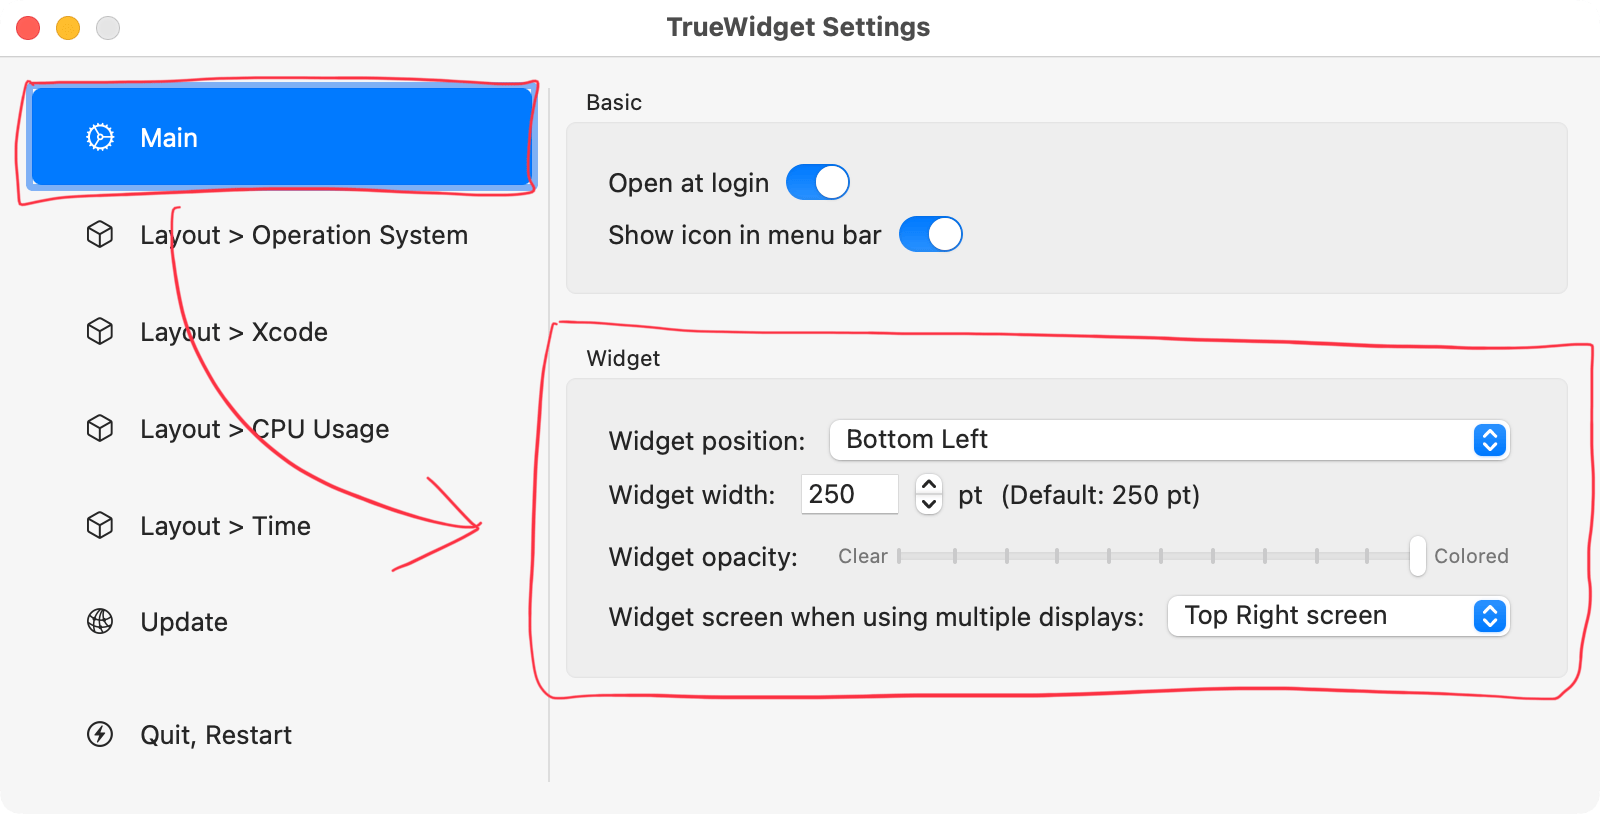
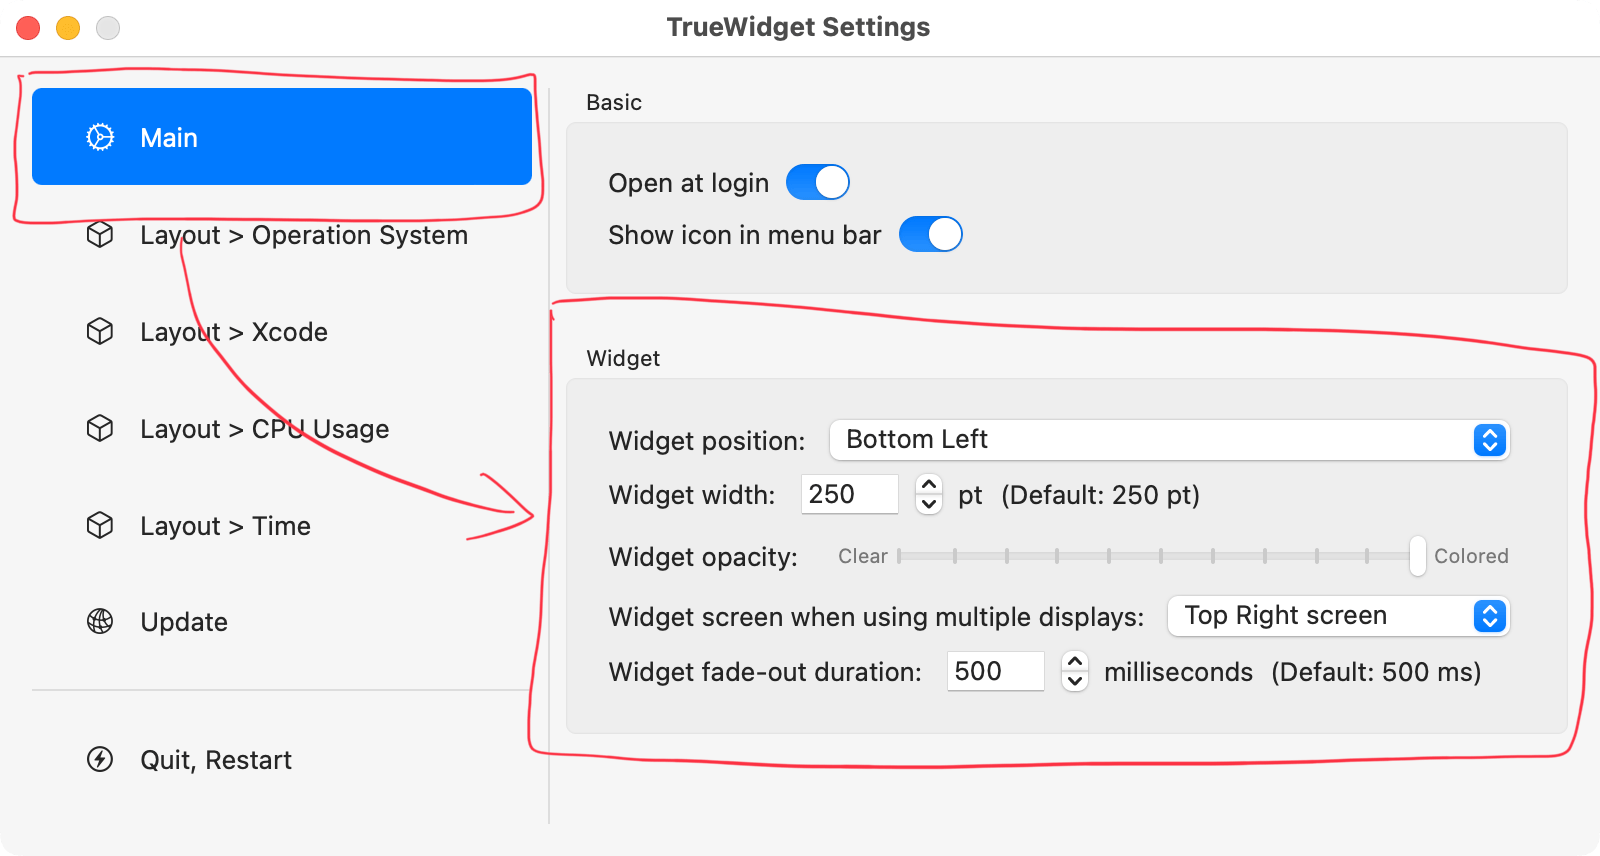
Update public

diff --git a/sites/truewidget/public/docs/releasenotes/index.html b/sites/truewidget/public/docs/releasenotes/index.html
@@ -19,22 +19,22 @@
 <link rel="icon" type="image/png" href="/favicons/android-192x192.png" sizes="192x192">
 
 <title>Release notes | TrueWidget</title>
-<meta name="description" content="TrueWidget 1.3.0 📦 Download 📅 Release date May 2, 2023 ✨ New Features Added option to show user name. ⚡ Improvements Supported the security update version in macOS version display. Sparkle Framework has been updated. TrueWidget 1.2.0 📦 Download 📅 Release date Feb 4, 2022 🐛 Bug Fixes Fixed an issue that Open at login option does not work properly. ✨ New Features Added option to show time of other time zones.">
+<meta name="description" content="TrueWidget 1.4.0 📦 Download 📅 Release date May 14, 2023 ✨ New Features Changed the widget to fade out on mouseover instead of hiding immediately. ⚡ Improvements Enabled the setting of Open at login by default. Changed to open TrueWidget directly instead of via the helper app when opening at login. TrueWidget 1.3.0 📦 Download 📅 Release date May 2, 2023 ✨ New Features Added option to show user name. ⚡ Improvements Supported the security update version in macOS version display.">
 <meta property="og:title" content="Release notes" />
-<meta property="og:description" content="TrueWidget 1.3.0 📦 Download 📅 Release date May 2, 2023 ✨ New Features Added option to show user name. ⚡ Improvements Supported the security update version in macOS version display. Sparkle Framework has been updated. TrueWidget 1.2.0 📦 Download 📅 Release date Feb 4, 2022 🐛 Bug Fixes Fixed an issue that Open at login option does not work properly. ✨ New Features Added option to show time of other time zones." />
+<meta property="og:description" content="TrueWidget 1.4.0 📦 Download 📅 Release date May 14, 2023 ✨ New Features Changed the widget to fade out on mouseover instead of hiding immediately. ⚡ Improvements Enabled the setting of Open at login by default. Changed to open TrueWidget directly instead of via the helper app when opening at login. TrueWidget 1.3.0 📦 Download 📅 Release date May 2, 2023 ✨ New Features Added option to show user name. ⚡ Improvements Supported the security update version in macOS version display." />
 <meta property="og:type" content="article" />
 <meta property="og:url" content="/docs/releasenotes/" /><meta property="og:image" content="https://truewidget.pqrs.org/images/logo.png"/><meta property="article:section" content="docs" />
 
 <meta property="og:site_name" content="TrueWidget" />
 <meta itemprop="name" content="Release notes">
-<meta itemprop="description" content="TrueWidget 1.3.0 📦 Download 📅 Release date May 2, 2023 ✨ New Features Added option to show user name. ⚡ Improvements Supported the security update version in macOS version display. Sparkle Framework has been updated. TrueWidget 1.2.0 📦 Download 📅 Release date Feb 4, 2022 🐛 Bug Fixes Fixed an issue that Open at login option does not work properly. ✨ New Features Added option to show time of other time zones.">
+<meta itemprop="description" content="TrueWidget 1.4.0 📦 Download 📅 Release date May 14, 2023 ✨ New Features Changed the widget to fade out on mouseover instead of hiding immediately. ⚡ Improvements Enabled the setting of Open at login by default. Changed to open TrueWidget directly instead of via the helper app when opening at login. TrueWidget 1.3.0 📦 Download 📅 Release date May 2, 2023 ✨ New Features Added option to show user name. ⚡ Improvements Supported the security update version in macOS version display.">
 
-<meta itemprop="wordCount" content="128"><meta itemprop="image" content="https://truewidget.pqrs.org/images/logo.png"/>
+<meta itemprop="wordCount" content="179"><meta itemprop="image" content="https://truewidget.pqrs.org/images/logo.png"/>
 <meta itemprop="keywords" content="" /><meta name="twitter:card" content="summary_large_image"/>
 <meta name="twitter:image" content="https://truewidget.pqrs.org/images/logo.png"/>
 
 <meta name="twitter:title" content="Release notes"/>
-<meta name="twitter:description" content="TrueWidget 1.3.0 📦 Download 📅 Release date May 2, 2023 ✨ New Features Added option to show user name. ⚡ Improvements Supported the security update version in macOS version display. Sparkle Framework has been updated. TrueWidget 1.2.0 📦 Download 📅 Release date Feb 4, 2022 🐛 Bug Fixes Fixed an issue that Open at login option does not work properly. ✨ New Features Added option to show time of other time zones."/>
+<meta name="twitter:description" content="TrueWidget 1.4.0 📦 Download 📅 Release date May 14, 2023 ✨ New Features Changed the widget to fade out on mouseover instead of hiding immediately. ⚡ Improvements Enabled the setting of Open at login by default. Changed to open TrueWidget directly instead of via the helper app when opening at login. TrueWidget 1.3.0 📦 Download 📅 Release date May 2, 2023 ✨ New Features Added option to show user name. ⚡ Improvements Supported the security update version in macOS version display."/>
 
 
 
@@ -82,7 +82,7 @@ if (!doNotTrack) {
     aria-label="Search this site…"
     autocomplete="off"
     
-    data-offline-search-index-json-src="/offline-search-index.1881bf910d4f34e9b638028c50305361.json"
+    data-offline-search-index-json-src="/offline-search-index.ad517c9a1c2566643a22856726030b35.json"
     data-offline-search-base-href="/"
     data-offline-search-max-results="25"
   >
@@ -107,7 +107,7 @@ if (!doNotTrack) {
     aria-label="Search this site…"
     autocomplete="off"
     
-    data-offline-search-index-json-src="/offline-search-index.1881bf910d4f34e9b638028c50305361.json"
+    data-offline-search-index-json-src="/offline-search-index.ad517c9a1c2566643a22856726030b35.json"
     data-offline-search-base-href="/"
     data-offline-search-max-results="25"
   >
@@ -202,6 +202,7 @@ if (!doNotTrack) {
 
 <nav id="TableOfContents">
   <ul>
+    <li><a href="#truewidget-140">TrueWidget 1.4.0</a></li>
     <li><a href="#truewidget-130">TrueWidget 1.3.0</a></li>
     <li><a href="#truewidget-120">TrueWidget 1.2.0</a></li>
     <li><a href="#truewidget-110">TrueWidget 1.1.0</a></li>
@@ -265,7 +266,27 @@ if (!doNotTrack) {
 
 		
 	</header>    
-	<h2 id="truewidget-130">TrueWidget 1.3.0</h2>
+	<h2 id="truewidget-140">TrueWidget 1.4.0</h2>
+<ul>
+<li><a href="https://github.com/pqrs-org/TrueWidget/releases/download/v1.4.0/TrueWidget-1.4.0.dmg">📦 Download</a></li>
+<li>📅 Release date
+<ul>
+<li>May 14, 2023</li>
+</ul>
+</li>
+<li>✨ New Features
+<ul>
+<li>Changed the widget to fade out on mouseover instead of hiding immediately.</li>
+</ul>
+</li>
+<li>⚡ Improvements
+<ul>
+<li>Enabled the setting of <code>Open at login</code> by default.</li>
+<li>Changed to open TrueWidget directly instead of via the helper app when opening at login.</li>
+</ul>
+</li>
+</ul>
+<h2 id="truewidget-130">TrueWidget 1.3.0</h2>
 <ul>
 <li><a href="https://github.com/pqrs-org/TrueWidget/releases/download/v1.3.0/TrueWidget-1.3.0.dmg">📦 Download</a></li>
 <li>📅 Release date

diff --git a/sites/truewidget/public/index.html b/sites/truewidget/public/index.html
@@ -78,7 +78,7 @@ if (!doNotTrack) {
     aria-label="Search this site…"
     autocomplete="off"
     
-    data-offline-search-index-json-src="/offline-search-index.1881bf910d4f34e9b638028c50305361.json"
+    data-offline-search-index-json-src="/offline-search-index.ad517c9a1c2566643a22856726030b35.json"
     data-offline-search-base-href="/"
     data-offline-search-max-results="25"
   >
@@ -118,10 +118,10 @@ if (!doNotTrack) {
 <div class="mt-4">
   <div class="btn-group mx-2 my-2">
     <a
-      href="https://github.com/pqrs-org/TrueWidget/releases/download/v1.3.0/TrueWidget-1.3.0.dmg"
+      href="https://github.com/pqrs-org/TrueWidget/releases/download/v1.4.0/TrueWidget-1.4.0.dmg"
       class="btn btn-primary btn-lg px-4"
     >
-      Download v1.3.0
+      Download v1.4.0
       <i class="fas fa-download ml-1"></i>
     </a>
   </div>

diff --git a/sites/truewidget/public/docs/configuration/hide-menu-bar-icon/index.html b/sites/truewidget/public/docs/configuration/hide-menu-bar-icon/index.html
@@ -86,7 +86,7 @@ if (!doNotTrack) {
     aria-label="Search this site…"
     autocomplete="off"
     
-    data-offline-search-index-json-src="/offline-search-index.1881bf910d4f34e9b638028c50305361.json"
+    data-offline-search-index-json-src="/offline-search-index.ad517c9a1c2566643a22856726030b35.json"
     data-offline-search-base-href="/"
     data-offline-search-max-results="25"
   >
@@ -111,7 +111,7 @@ if (!doNotTrack) {
     aria-label="Search this site…"
     autocomplete="off"
     
-    data-offline-search-index-json-src="/offline-search-index.1881bf910d4f34e9b638028c50305361.json"
+    data-offline-search-index-json-src="/offline-search-index.ad517c9a1c2566643a22856726030b35.json"
     data-offline-search-base-href="/"
     data-offline-search-max-results="25"
   >

diff --git a/sites/truewidget/public/docs/configuration/index.html b/sites/truewidget/public/docs/configuration/index.html
@@ -78,7 +78,7 @@ if (!doNotTrack) {
     aria-label="Search this site…"
     autocomplete="off"
     
-    data-offline-search-index-json-src="/offline-search-index.1881bf910d4f34e9b638028c50305361.json"
+    data-offline-search-index-json-src="/offline-search-index.ad517c9a1c2566643a22856726030b35.json"
     data-offline-search-base-href="/"
     data-offline-search-max-results="25"
   >
@@ -103,7 +103,7 @@ if (!doNotTrack) {
     aria-label="Search this site…"
     autocomplete="off"
     
-    data-offline-search-index-json-src="/offline-search-index.1881bf910d4f34e9b638028c50305361.json"
+    data-offline-search-index-json-src="/offline-search-index.ad517c9a1c2566643a22856726030b35.json"
     data-offline-search-base-href="/"
     data-offline-search-max-results="25"
   >

diff --git a/sites/truewidget/public/docs/configuration/layout-configuration/index.html b/sites/truewidget/public/docs/configuration/layout-configuration/index.html
@@ -90,7 +90,7 @@ if (!doNotTrack) {
     aria-label="Search this site…"
     autocomplete="off"
     
-    data-offline-search-index-json-src="/offline-search-index.1881bf910d4f34e9b638028c50305361.json"
+    data-offline-search-index-json-src="/offline-search-index.ad517c9a1c2566643a22856726030b35.json"
     data-offline-search-base-href="/"
     data-offline-search-max-results="25"
   >
@@ -115,7 +115,7 @@ if (!doNotTrack) {
     aria-label="Search this site…"
     autocomplete="off"
     
-    data-offline-search-index-json-src="/offline-search-index.1881bf910d4f34e9b638028c50305361.json"
+    data-offline-search-index-json-src="/offline-search-index.ad517c9a1c2566643a22856726030b35.json"
     data-offline-search-base-href="/"
     data-offline-search-max-results="25"
   >

diff --git a/sites/truewidget/public/docs/configuration/open-at-login/index.html b/sites/truewidget/public/docs/configuration/open-at-login/index.html
@@ -86,7 +86,7 @@ if (!doNotTrack) {
     aria-label="Search this site…"
     autocomplete="off"
     
-    data-offline-search-index-json-src="/offline-search-index.1881bf910d4f34e9b638028c50305361.json"
+    data-offline-search-index-json-src="/offline-search-index.ad517c9a1c2566643a22856726030b35.json"
     data-offline-search-base-href="/"
     data-offline-search-max-results="25"
   >
@@ -111,7 +111,7 @@ if (!doNotTrack) {
     aria-label="Search this site…"
     autocomplete="off"
     
-    data-offline-search-index-json-src="/offline-search-index.1881bf910d4f34e9b638028c50305361.json"
+    data-offline-search-index-json-src="/offline-search-index.ad517c9a1c2566643a22856726030b35.json"
     data-offline-search-base-href="/"
     data-offline-search-max-results="25"
   >

diff --git a/sites/truewidget/public/docs/configuration/open-settings/index.html b/sites/truewidget/public/docs/configuration/open-settings/index.html
@@ -82,7 +82,7 @@ if (!doNotTrack) {
     aria-label="Search this site…"
     autocomplete="off"
     
-    data-offline-search-index-json-src="/offline-search-index.1881bf910d4f34e9b638028c50305361.json"
+    data-offline-search-index-json-src="/offline-search-index.ad517c9a1c2566643a22856726030b35.json"
     data-offline-search-base-href="/"
     data-offline-search-max-results="25"
   >
@@ -107,7 +107,7 @@ if (!doNotTrack) {
     aria-label="Search this site…"
     autocomplete="off"
     
-    data-offline-search-index-json-src="/offline-search-index.1881bf910d4f34e9b638028c50305361.json"
+    data-offline-search-index-json-src="/offline-search-index.ad517c9a1c2566643a22856726030b35.json"
     data-offline-search-base-href="/"
     data-offline-search-max-results="25"
   >

diff --git a/sites/truewidget/public/docs/getting-started/index.html b/sites/truewidget/public/docs/getting-started/index.html
@@ -82,7 +82,7 @@ if (!doNotTrack) {
     aria-label="Search this site…"
     autocomplete="off"
     
-    data-offline-search-index-json-src="/offline-search-index.1881bf910d4f34e9b638028c50305361.json"
+    data-offline-search-index-json-src="/offline-search-index.ad517c9a1c2566643a22856726030b35.json"
     data-offline-search-base-href="/"
     data-offline-search-max-results="25"
   >
@@ -107,7 +107,7 @@ if (!doNotTrack) {
     aria-label="Search this site…"
     autocomplete="off"
     
-    data-offline-search-index-json-src="/offline-search-index.1881bf910d4f34e9b638028c50305361.json"
+    data-offline-search-index-json-src="/offline-search-index.ad517c9a1c2566643a22856726030b35.json"
     data-offline-search-base-href="/"
     data-offline-search-max-results="25"
   >

diff --git a/sites/truewidget/public/docs/help/donwload-older-versions/index.html b/sites/truewidget/public/docs/help/donwload-older-versions/index.html
@@ -82,7 +82,7 @@ if (!doNotTrack) {
     aria-label="Search this site…"
     autocomplete="off"
     
-    data-offline-search-index-json-src="/offline-search-index.1881bf910d4f34e9b638028c50305361.json"
+    data-offline-search-index-json-src="/offline-search-index.ad517c9a1c2566643a22856726030b35.json"
     data-offline-search-base-href="/"
     data-offline-search-max-results="25"
   >
@@ -107,7 +107,7 @@ if (!doNotTrack) {
     aria-label="Search this site…"
     autocomplete="off"
     
-    data-offline-search-index-json-src="/offline-search-index.1881bf910d4f34e9b638028c50305361.json"
+    data-offline-search-index-json-src="/offline-search-index.ad517c9a1c2566643a22856726030b35.json"
     data-offline-search-base-href="/"
     data-offline-search-max-results="25"
   >

diff --git a/sites/truewidget/public/docs/help/index.html b/sites/truewidget/public/docs/help/index.html
@@ -78,7 +78,7 @@ if (!doNotTrack) {
     aria-label="Search this site…"
     autocomplete="off"
     
-    data-offline-search-index-json-src="/offline-search-index.1881bf910d4f34e9b638028c50305361.json"
+    data-offline-search-index-json-src="/offline-search-index.ad517c9a1c2566643a22856726030b35.json"
     data-offline-search-base-href="/"
     data-offline-search-max-results="25"
   >
@@ -103,7 +103,7 @@ if (!doNotTrack) {
     aria-label="Search this site…"
     autocomplete="off"
     
-    data-offline-search-index-json-src="/offline-search-index.1881bf910d4f34e9b638028c50305361.json"
+    data-offline-search-index-json-src="/offline-search-index.ad517c9a1c2566643a22856726030b35.json"
     data-offline-search-base-href="/"
     data-offline-search-max-results="25"
   >

diff --git a/sites/truewidget/public/docs/help/quit/index.html b/sites/truewidget/public/docs/help/quit/index.html
@@ -98,7 +98,7 @@ if (!doNotTrack) {
     aria-label="Search this site…"
     autocomplete="off"
     
-    data-offline-search-index-json-src="/offline-search-index.1881bf910d4f34e9b638028c50305361.json"
+    data-offline-search-index-json-src="/offline-search-index.ad517c9a1c2566643a22856726030b35.json"
     data-offline-search-base-href="/"
     data-offline-search-max-results="25"
   >
@@ -123,7 +123,7 @@ if (!doNotTrack) {
     aria-label="Search this site…"
     autocomplete="off"
     
-    data-offline-search-index-json-src="/offline-search-index.1881bf910d4f34e9b638028c50305361.json"
+    data-offline-search-index-json-src="/offline-search-index.ad517c9a1c2566643a22856726030b35.json"
     data-offline-search-base-href="/"
     data-offline-search-max-results="25"
   >

diff --git a/sites/truewidget/public/docs/help/uninstall/index.html b/sites/truewidget/public/docs/help/uninstall/index.html
@@ -86,7 +86,7 @@ if (!doNotTrack) {
     aria-label="Search this site…"
     autocomplete="off"
     
-    data-offline-search-index-json-src="/offline-search-index.1881bf910d4f34e9b638028c50305361.json"
+    data-offline-search-index-json-src="/offline-search-index.ad517c9a1c2566643a22856726030b35.json"
     data-offline-search-base-href="/"
     data-offline-search-max-results="25"
   >
@@ -111,7 +111,7 @@ if (!doNotTrack) {
     aria-label="Search this site…"
     autocomplete="off"
     
-    data-offline-search-index-json-src="/offline-search-index.1881bf910d4f34e9b638028c50305361.json"
+    data-offline-search-index-json-src="/offline-search-index.ad517c9a1c2566643a22856726030b35.json"
     data-offline-search-base-href="/"
     data-offline-search-max-results="25"
   >
